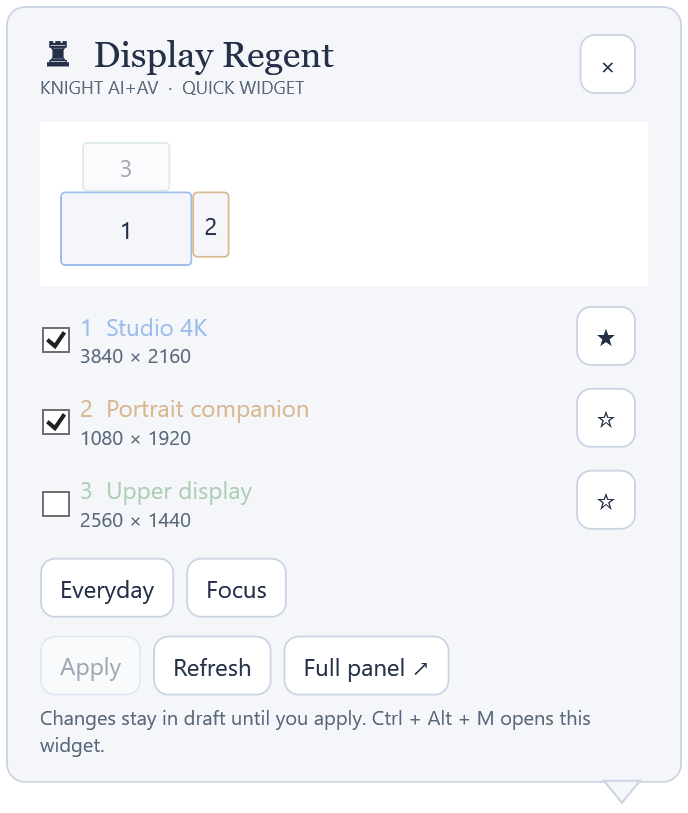
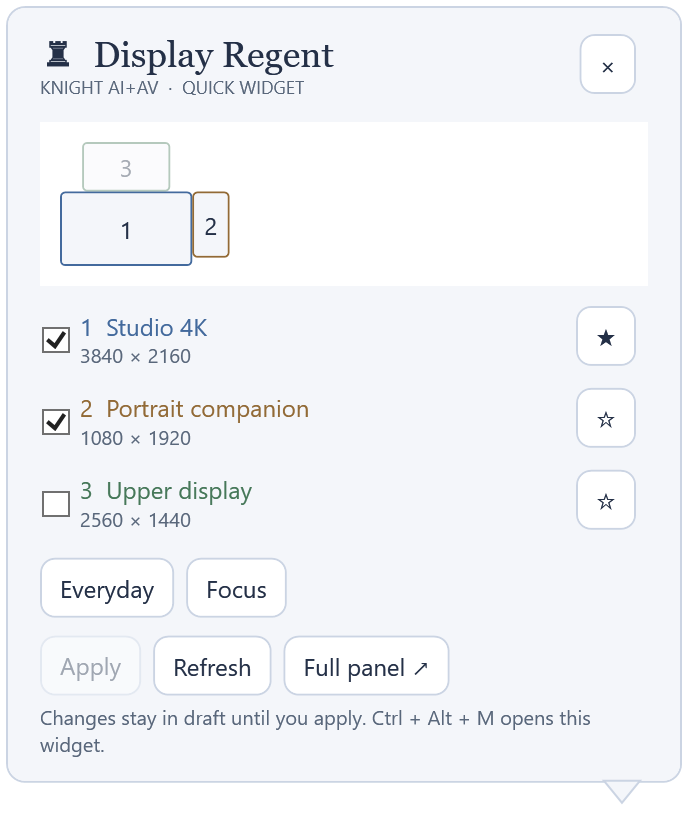
Anchor widget flag to tray click and improve light theme contrast

diff --git a/src/DisplayRegent/QuickWindow.cs b/src/DisplayRegent/QuickWindow.cs
@@ -20,6 +20,9 @@ internal sealed class QuickWindow : Window
     private Polygon flag = new();
     private Brush ink = Brushes.White, muted = Brushes.Gray, edge = Brushes.Gray, paper = Brushes.Black;
     private static readonly string[] Colors = { "#9BBEED", "#D9B78F", "#ADCFB6", "#C7ADE2", "#EFAAA3", "#A4D7DB" };
+    private static readonly string[] LightColors = { "#436A9D", "#926A36", "#467859", "#765797", "#A35C54", "#397C82" };
+    private Brush Accent(int number) => Color((controller.QuickLight ? LightColors : Colors)[(number - 1) % Colors.Length]);
+    internal System.Drawing.Point? TrayAnchor;
     internal QuickWindow(MainWindow controller)
     {
         this.controller = controller;
@@ -56,7 +59,7 @@ internal sealed class QuickWindow : Window
             double scale = Math.Min(284 / Math.Max(1, width), 62 / Math.Max(1, height));
             foreach (var d in displays)
             {
-                var tile = new Border { Width = Math.Max(18, d.Width * scale), Height = Math.Max(18, d.Height * scale), BorderBrush = Color(Colors[(d.Number - 1) % Colors.Length]), BorderThickness = new Thickness(1), Background = paper, Opacity = d.Enabled ? 1 : .4, CornerRadius = new CornerRadius(2), Child = new TextBlock { Text = d.Number.ToString(), Foreground = ink, HorizontalAlignment = HorizontalAlignment.Center, VerticalAlignment = VerticalAlignment.Center } };
+                var tile = new Border { Width = Math.Max(18, d.Width * scale), Height = Math.Max(18, d.Height * scale), BorderBrush = Accent(d.Number), BorderThickness = new Thickness(1), Background = paper, Opacity = d.Enabled ? 1 : .4, CornerRadius = new CornerRadius(2), Child = new TextBlock { Text = d.Number.ToString(), Foreground = ink, HorizontalAlignment = HorizontalAlignment.Center, VerticalAlignment = VerticalAlignment.Center } };
                 Canvas.SetLeft(tile, 10 + (d.X - minX) * scale); Canvas.SetTop(tile, 10 + (d.Y - minY) * scale); canvas.Children.Add(tile);
             }
         }
@@ -66,7 +69,7 @@ internal sealed class QuickWindow : Window
             var row = new DockPanel { Margin = new Thickness(0, 0, 0, 7) };
             var primary = Button(d.Primary ? "★" : "☆", () => controller.QuickPrimary(d), !controller.QuickPending); primary.ToolTip = "Make this the primary screen"; DockPanel.SetDock(primary, Dock.Right); row.Children.Add(primary);
             var toggle = new CheckBox { IsChecked = d.Enabled, IsEnabled = !controller.QuickPending, Foreground = ink, VerticalContentAlignment = VerticalAlignment.Center };
-            var label = new StackPanel(); label.Children.Add(new TextBlock { Text = $"{d.Number}  {d.Name}", Foreground = Color(Colors[(d.Number - 1) % Colors.Length]), FontSize = 12 }); label.Children.Add(Text($"{d.Width} × {d.Height}" + (d.MirrorOf != "" ? " · mirrored" : ""), 10, true)); toggle.Content = label;
+            var label = new StackPanel(); label.Children.Add(new TextBlock { Text = $"{d.Number}  {d.Name}", Foreground = Accent(d.Number), FontSize = 12 }); label.Children.Add(Text($"{d.Width} × {d.Height}" + (d.MirrorOf != "" ? " · mirrored" : ""), 10, true)); toggle.Content = label;
             toggle.Click += (_, _) => controller.QuickToggle(d, toggle.IsChecked == true); row.Children.Add(toggle); body.Children.Add(row);
         }
         var scenes = new WrapPanel { Margin = new Thickness(0, 3, 0, 5) };
@@ -88,12 +91,15 @@ internal sealed class QuickWindow : Window
     {
         Show(); UpdateLayout();
         // Taskbar work-area exclusion anchors the flag immediately above the tray.
-        var screen = Forms.Screen.PrimaryScreen ?? Forms.Screen.FromPoint(Forms.Cursor.Position);
+        var screen = TrayAnchor.HasValue ? Forms.Screen.FromPoint(TrayAnchor.Value) : Forms.Screen.PrimaryScreen ?? Forms.Screen.FromPoint(Forms.Cursor.Position);
         var area = screen.WorkingArea; var handle = new WindowInteropHelper(this).Handle;
         SetWindowPos(handle, new IntPtr(-1), area.Right - 360, area.Bottom - 400, 0, 0, 0x0011);
         double dpi = GetDpiForWindow(handle) / 96d;
         int width = (int)Math.Ceiling(ActualWidth * dpi), height = (int)Math.Ceiling(ActualHeight * dpi);
-        SetWindowPos(handle, new IntPtr(-1), Math.Max(area.Left, area.Right - width - 8), Math.Max(area.Top, area.Bottom - height), width, height, 0x0040);
+        int anchor = TrayAnchor?.X ?? area.Right - 38;
+        int x = Math.Clamp(anchor - width + (int)(29 * dpi), area.Left, Math.Max(area.Left, area.Right - width));
+        flag.Margin = new Thickness(0, -1, Math.Clamp((x + width - anchor) / dpi - 12, 8, Width - 30), 0);
+        SetWindowPos(handle, new IntPtr(-1), x, Math.Max(area.Top, area.Bottom - height), width, height, 0x0040);
         Activate();
     }
 }

diff --git a/src/DisplayRegent/MainWindow.cs b/src/DisplayRegent/MainWindow.cs
@@ -63,7 +63,8 @@ internal sealed class MainWindow : Window
     internal void QuickKeep() { try { Keep(); } catch (Exception e) { status.Text = e.Message; } quick?.Render(); }
     internal void QuickRevert() { Revert(); quick?.Render(); }
     internal void QuickRefresh() { if (before == null) Refresh(); quick?.Render(); }
-    internal void ShowQuick() { quickOperation = true; quick ??= new QuickWindow(this); quick.Render(); quick.OpenAtTray(); }
+    internal void ShowQuick() { quickOperation = true; Hide(); quick ??= new QuickWindow(this); quick.Render(); quick.OpenAtTray(); }
+    private void ShowQuickFromTray() { quick ??= new QuickWindow(this); quick.TrayAnchor = Forms.Cursor.Position; ShowQuick(); }
 
     public MainWindow(bool capture, bool demonstration)
     {
@@ -501,7 +502,7 @@ internal sealed class MainWindow : Window
         menu.Items.Add("Refresh displays", null, (_, _) => Dispatcher.Invoke(Refresh)); menu.Items.Add(new Forms.ToolStripSeparator());
         menu.Items.Add("Quit", null, (_, _) => Dispatcher.Invoke(() => { if (before != null) Revert(); exiting = true; Close(); Application.Current.Shutdown(); }));
         tray = new Forms.NotifyIcon { Text = "Display Regent", Icon = System.Drawing.Icon.ExtractAssociatedIcon(Environment.ProcessPath!), Visible = true, ContextMenuStrip = menu };
-        tray.MouseClick += (_, e) => { if (e.Button == Forms.MouseButtons.Left) Dispatcher.Invoke(ShowQuick); };
+        tray.MouseClick += (_, e) => { if (e.Button == Forms.MouseButtons.Left) Dispatcher.Invoke(ShowQuickFromTray); };
     }
     private void RegisterKeys()
     {
